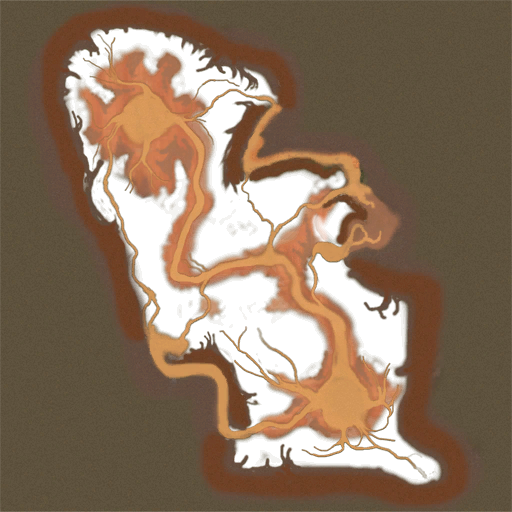
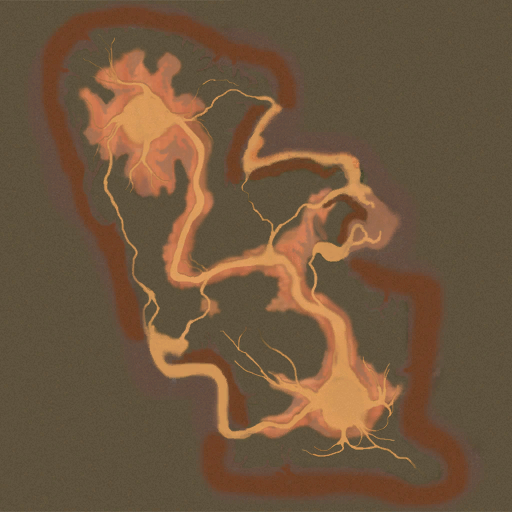
Transparency in textures are now handled correctly.

Changed region(s): [[0.125, 0.0312, 0.875, 0.9688]]

diff --git a/src/Engine3d/Controls/OldSchoolDungeonCameraControls.java b/src/Engine3d/Controls/OldSchoolDungeonCameraControls.java
@@ -17,6 +17,7 @@ public class OldSchoolDungeonCameraControls extends Controller implements Updata
     private boolean dDown = false;
     private boolean spaceDown = false;
     private boolean shiftDown = false;
+    private boolean ctrlDown = false;
 
     public OldSchoolDungeonCameraControls(SceneRenderer renderer) {
         super(renderer);
@@ -27,10 +28,13 @@ public class OldSchoolDungeonCameraControls extends Controller implements Updata
         Vector3D transDelta = new Vector3D();
         Vector3D rotDelta = new Vector3D();
 
-        if (wDown) {transDelta.translate(new Vector3D(0, 0, stepSize));}
-        if (sDown) {transDelta.translate(new Vector3D(0, 0, -stepSize));}
-        if (spaceDown) {transDelta.translate(new Vector3D(0, stepSize, 0));}
-        if (shiftDown) {transDelta.translate(new Vector3D(0, -stepSize, 0));}
+        double currStepSize = stepSize;
+        if (ctrlDown) {currStepSize *= 5;}
+
+        if (wDown) {transDelta.translate(new Vector3D(0, 0, currStepSize));}
+        if (sDown) {transDelta.translate(new Vector3D(0, 0, -currStepSize));}
+        if (spaceDown) {transDelta.translate(new Vector3D(0, currStepSize, 0));}
+        if (shiftDown) {transDelta.translate(new Vector3D(0, -currStepSize, 0));}
         if (aDown) {rotDelta.translate(new Vector3D(0, turnStep, 0));}
         if (dDown) {rotDelta.translate(new Vector3D(0, -turnStep, 0));}
 
@@ -48,6 +52,7 @@ public class OldSchoolDungeonCameraControls extends Controller implements Updata
             case KeyEvent.VK_D -> dDown = false;
             case KeyEvent.VK_SPACE -> spaceDown = false;
             case KeyEvent.VK_SHIFT -> shiftDown = false;
+            case KeyEvent.VK_CONTROL -> ctrlDown = false;
         }
     }
 
@@ -60,6 +65,7 @@ public class OldSchoolDungeonCameraControls extends Controller implements Updata
             case KeyEvent.VK_D -> dDown = true;
             case KeyEvent.VK_SPACE -> spaceDown = true;
             case KeyEvent.VK_SHIFT -> shiftDown = true;
+            case KeyEvent.VK_CONTROL -> ctrlDown = true;
         }
     }
 }

diff --git a/src/Engine3d/Rendering/ScreenDrawing/Drawer.java b/src/Engine3d/Rendering/ScreenDrawing/Drawer.java
@@ -84,23 +84,27 @@ public class Drawer
         float red1 = color1.getRed() / 255.0f;
         float green1 = color1.getGreen() / 255.0f;
         float blue1 = color1.getBlue() / 255.0f;
+        float alpha1 = color1.getAlpha() / 255.0f;
 
         float red2 = color2.getRed() / 255.0f;
         float green2 = color2.getGreen() / 255.0f;
         float blue2 = color2.getBlue() / 255.0f;
+        float alpha2 = color2.getAlpha() / 255.0f;
 
         // Multiply corresponding components
         float redResult = red1 * red2;
         float greenResult = green1 * green2;
         float blueResult = blue1 * blue2;
+        float alphaResult = alpha1 * alpha2;
 
         // Convert back to the range [0, 255] and clamp
         int red = Math.min(255, Math.max(0, Math.round(redResult * 255)));
         int green = Math.min(255, Math.max(0, Math.round(greenResult * 255)));
         int blue = Math.min(255, Math.max(0, Math.round(blueResult * 255)));
+        int alpha = Math.min(255, Math.max(0, Math.round(alphaResult * 255)));
 
         // Create and return the resulting color
-        return new Color(red, green, blue);
+        return new Color(red, green, blue, alpha);
     }
 
     public void drawDebugTriangle(Color c, MeshTriangle t)

diff --git a/src/Engine3d/Rendering/ScreenDrawing/Texturizer.java b/src/Engine3d/Rendering/ScreenDrawing/Texturizer.java
@@ -179,6 +179,7 @@ public class Texturizer
         if (screenBuffer.pixelOnTop(j,i,tex_w))
         {
             Color texture = sampleSprite(sprite, spriteWidth, spriteHeight,tex_u / tex_w, tex_v / tex_w);
+            if (texture.getAlpha() == 0) {return;}
             Color diffuse = mtl.getDiffuseColour();
             Color base = Drawer.multiplyColors(texture, diffuse);
             Color shaded =  Drawer.getColourShade(base, luminance);
@@ -197,6 +198,11 @@ public class Texturizer
         v *= spriteHeigth;
 
         int rgb = sprite.getRGB((int)u, (int)v);
-        return new Color(rgb);
+        int alpha = (rgb >> 24) & 0xFF; // Extract the alpha channel (8 highest bits)
+        int red = (rgb >> 16) & 0xff;
+        int green = (rgb >> 8) & 0xff;
+        int blue = (rgb >> 0) & 0xff;
+
+        return new Color(red, green, blue, alpha);
     }
 }
